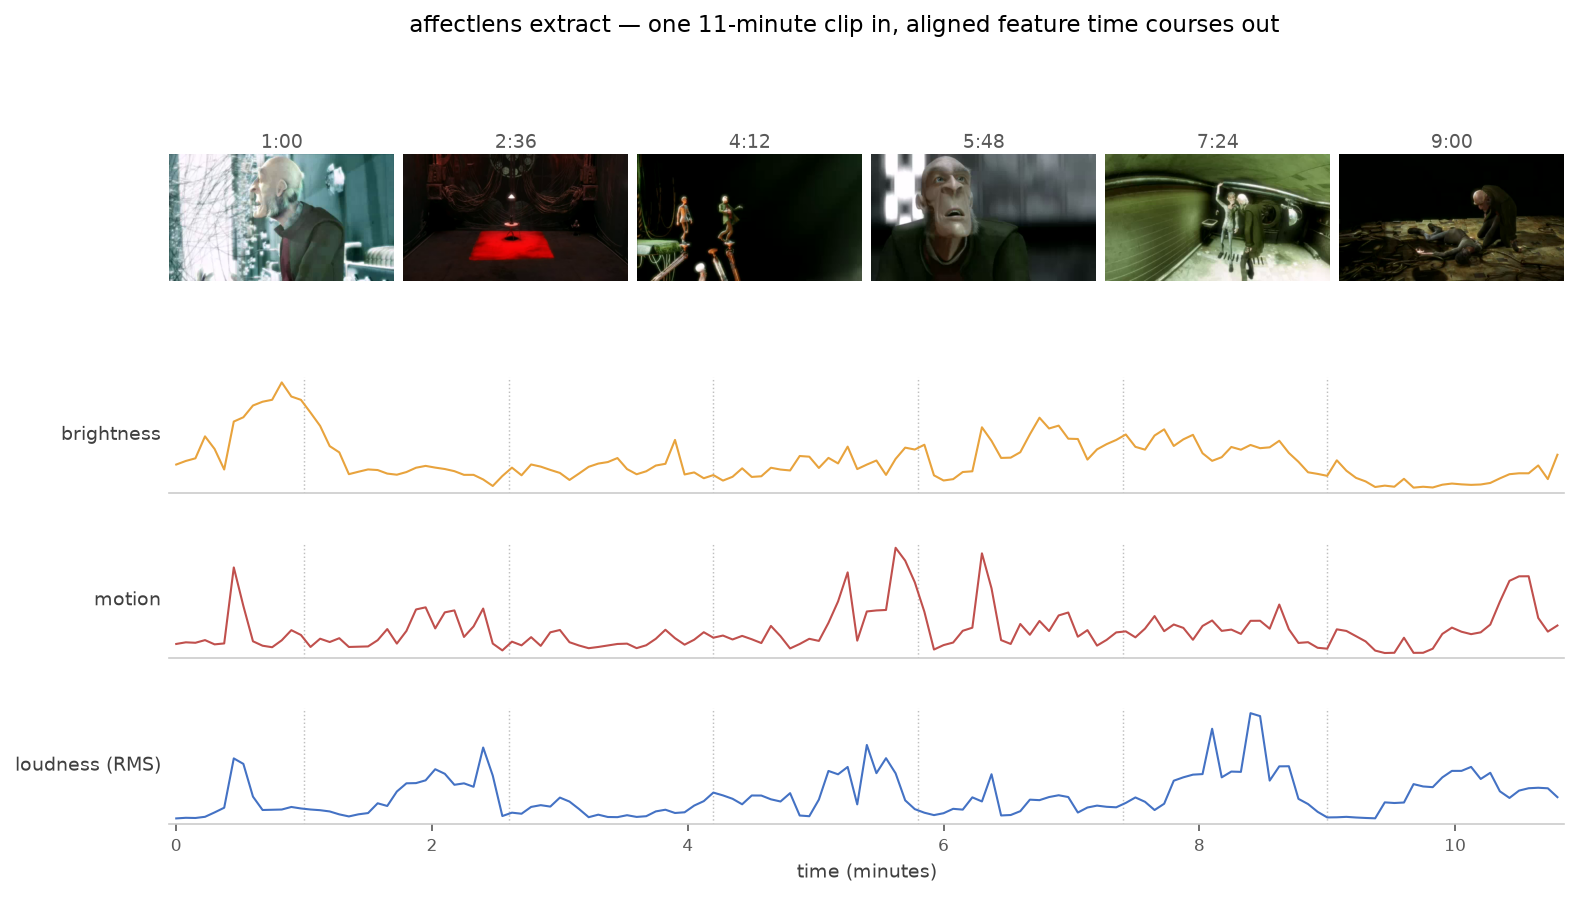
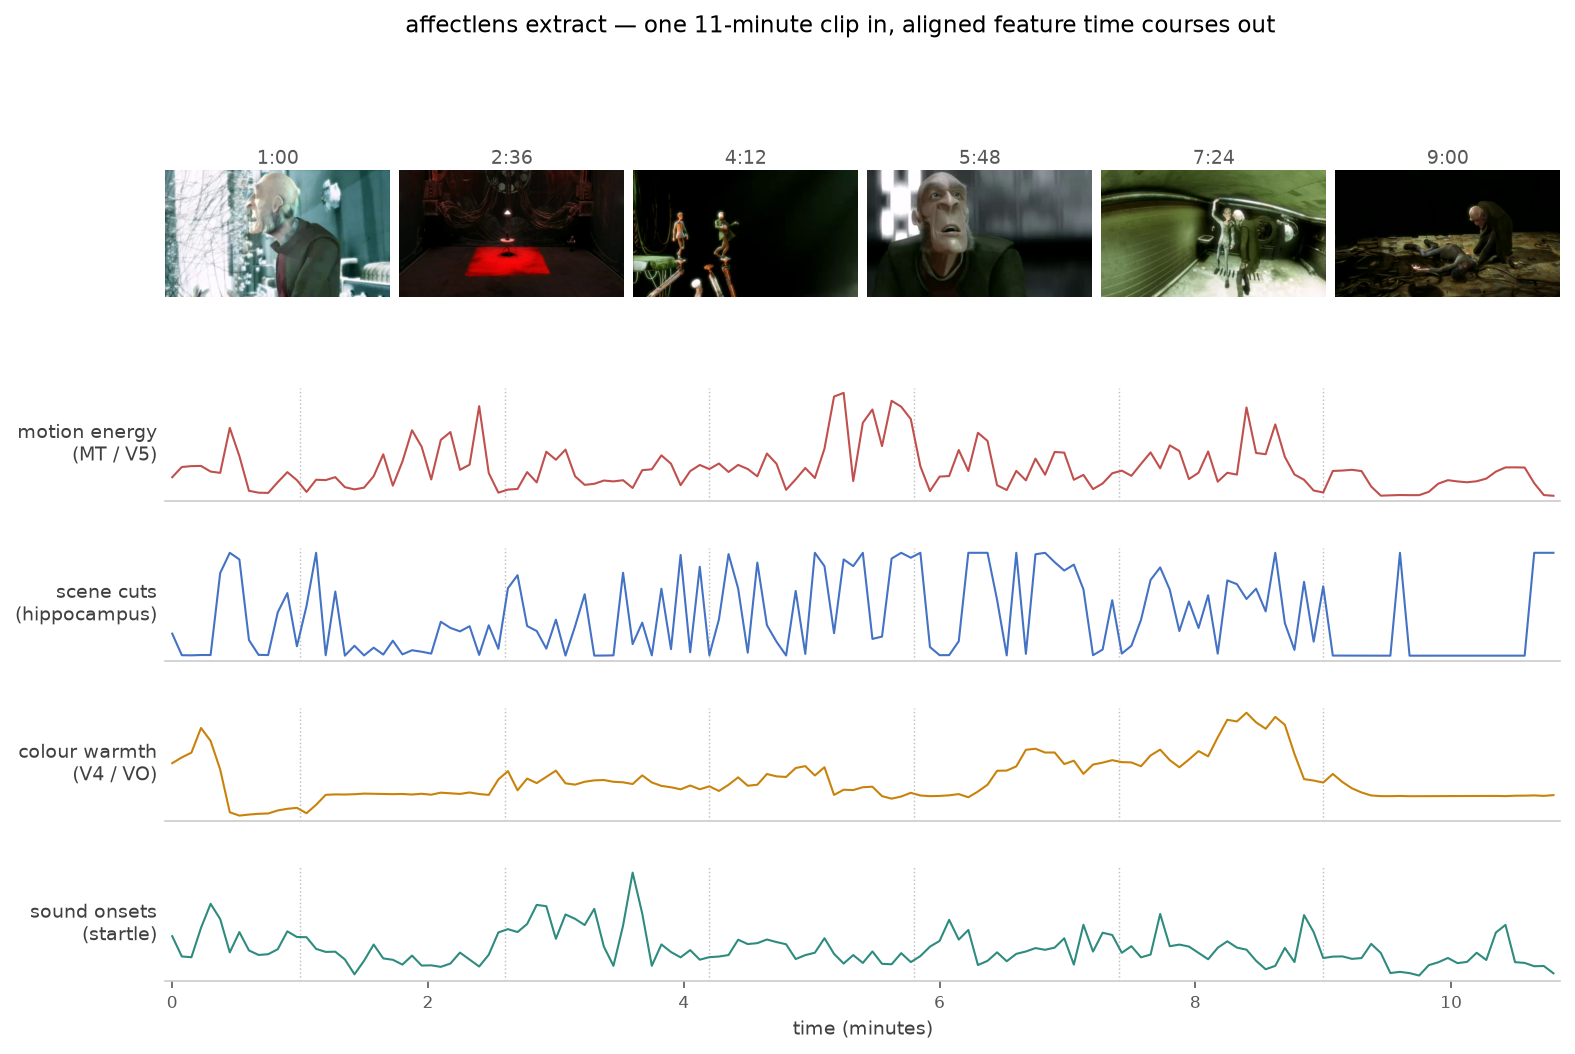
Make the hero image higher-level: motion energy, scene cuts, colour warmth, sound onsets
The hero showed low-level curves (brightness, motion, loudness) — not an
impressive first impression. Keep the exact same format (film screenshots across
the top, stacked magnitude timelines below with frame-time markers) but swap in
four higher-level, brain-mapped features that visibly track the frames: motion
energy (MT/V5), scene cuts (hippocampus), colour warmth (V4/VO), and sound onsets
(startle). Colour warmth, for instance, dips on the cold snowy open and peaks in
the warm tunnel sections. Update the README alt text/caption and the figure
docstring to match.

diff --git a/scripts/make_readme_figures.py b/scripts/make_readme_figures.py
@@ -11,8 +11,9 @@ Then:
 
     python scripts/make_readme_figures.py
 
-Figure 1 (features.png): real frames from Elephants Dream above the feature
-time courses extracted from the same clip — what `extract` produces.
+Figure 1 (features.png): real frames from Elephants Dream above four
+higher-level feature time courses (motion energy, scene cuts, colour warmth,
+sound onsets), each labelled with the brain system it probes — the hero.
 
 Figure 2 (encoding.png): the `encode` workflow on a demo signal fabricated
 from the clip's own loudness delayed by one bin, showing the lag scan
@@ -66,13 +67,17 @@ def make_features_figure(X: pd.DataFrame) -> None:
     frames = [grab_frame(cap, t) for t in FRAME_TIMES_S]
     cap.release()
 
+    # Higher-level features that visibly track the frames above: real motion
+    # energy, shot boundaries, colour warmth, and sound onsets — each labelled
+    # with the brain system it is meant to probe (see the mid-level tier).
     curves = [
-        ("visual__luminance_mean", "brightness", "#e8a33d"),
-        ("visual__motion_mean", "motion", "#c0504d"),
-        ("audio__rms_mean", "loudness (RMS)", "#4472c4"),
+        ("visual__flow_magnitude_mean", "motion energy\n(MT / V5)", "#c0504d"),
+        ("visual__scene_cut_max", "scene cuts\n(hippocampus)", "#4472c4"),
+        ("visual__chroma_by_mean", "colour warmth\n(V4 / VO)", "#c9820a"),
+        ("audio__loudness_attack_mean", "sound onsets\n(startle)", "#2e8b7f"),
     ]
 
-    fig = plt.figure(figsize=(12, 6.2))
+    fig = plt.figure(figsize=(12, 7.4))
     gs = fig.add_gridspec(
         len(curves) + 1, len(frames),
         height_ratios=[1.9] + [1] * len(curves), hspace=0.35, wspace=0.04,

diff --git a/README.md b/README.md
@@ -12,12 +12,14 @@ fits cross-validated linear models that (a) predict continuous ratings or (b)
 predict a separately recorded signal with a lag search — reporting held-out
 prediction accuracy and *which features the response leans on*.
 
-![Real frames from an 11-minute film above the feature time courses affectlens extracted from it](docs/images/features.png)
+![Frames from an 11-minute film above four higher-level feature time courses — motion energy, scene cuts, colour warmth, and sound onsets — that affectlens extracted from it](docs/images/features.png)
 
-<sub>Frames and low-level feature time courses from [*Elephants Dream*](https://orange.blender.org/)
-(© 2006 Blender Foundation, CC-BY-2.5), one of the linked sample clips. Fetch
-them with `python scripts/fetch_samples.py`; regenerate every figure in this
-README with `python scripts/make_readme_figures.py`.</sub>
+<sub>Frames above mid-level feature time courses — motion energy (MT/V5), scene
+cuts (hippocampus), colour warmth (V4/VO), sound onsets (startle) — from
+[*Elephants Dream*](https://orange.blender.org/) (© 2006 Blender Foundation,
+CC-BY-2.5), one of the linked sample clips. Fetch them with `python
+scripts/fetch_samples.py`; regenerate every figure in this README with `python
+scripts/make_readme_figures.py`.</sub>
 
 ---
 